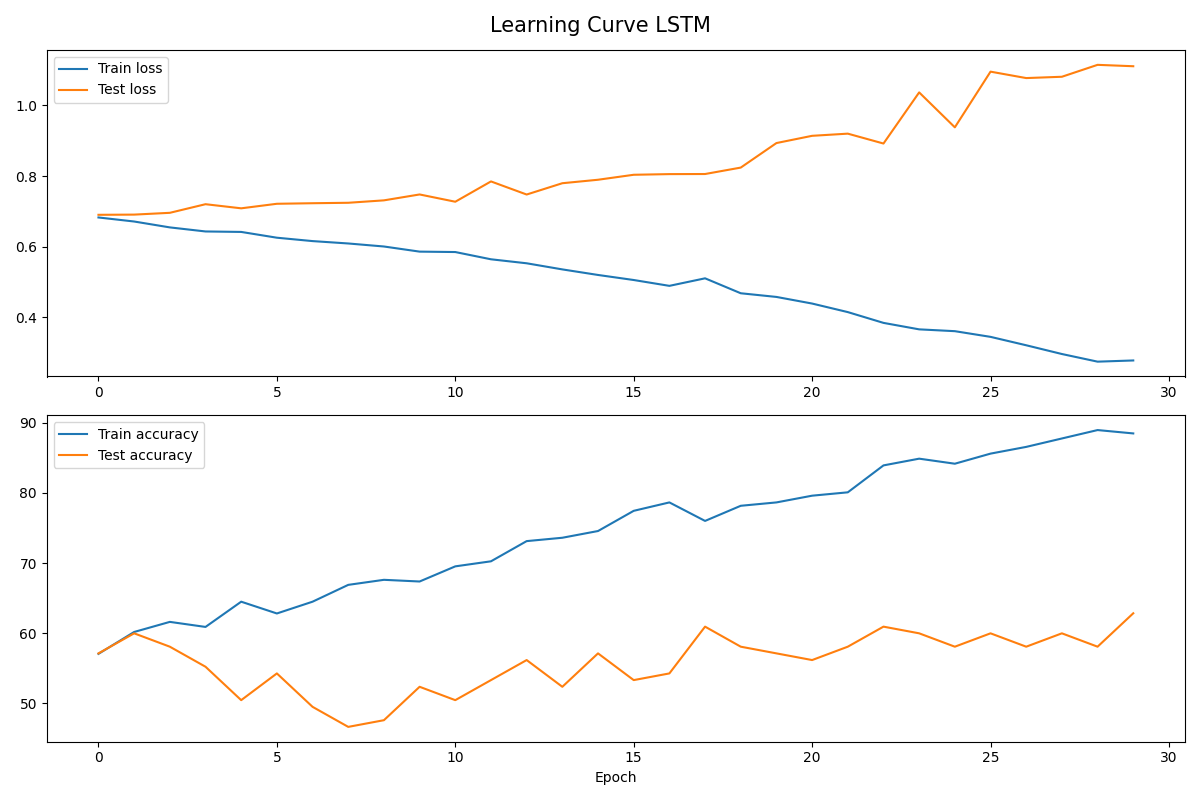
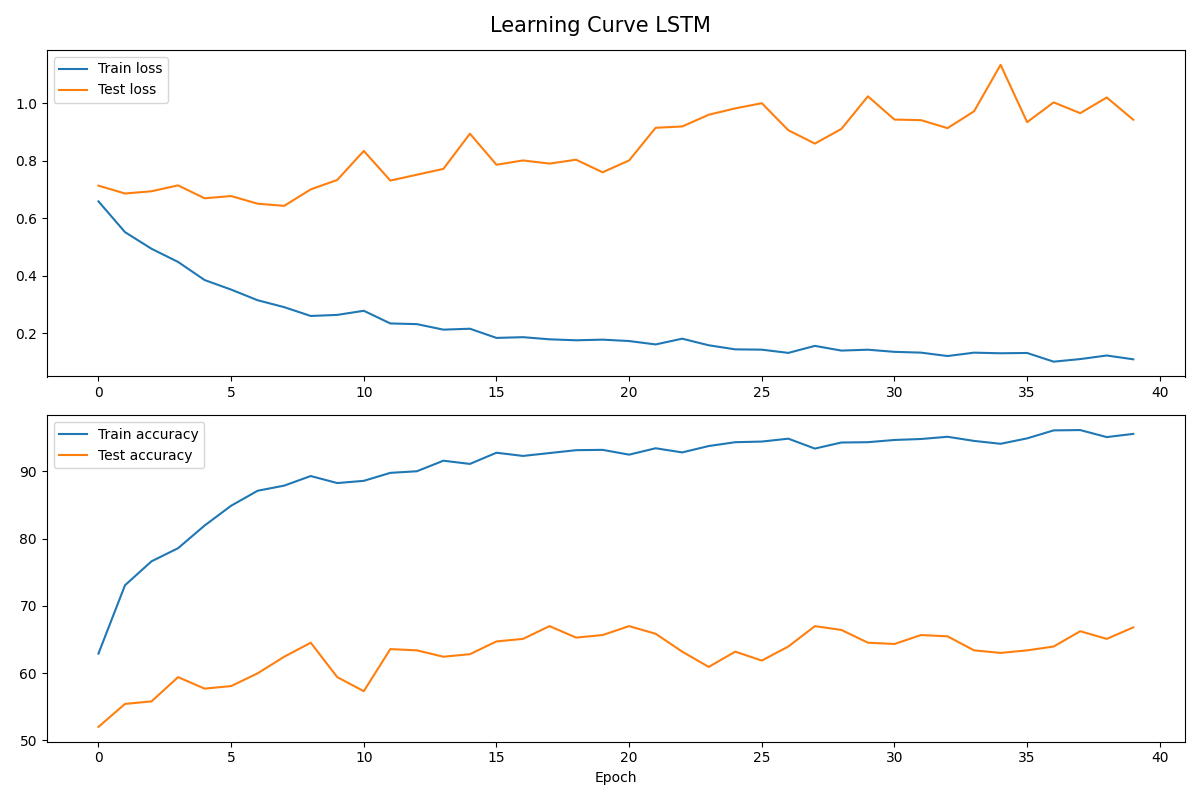
update

diff --git a/SW/size/models.py b/SW/size/models.py
@@ -64,7 +64,7 @@ class ConvNet(nn.Module):
     
 class LSTM(nn.Module):
 
-    def __init__(self, input_size, output_size, device, hidden_size=50, num_layers=2, pdrop=0.1):
+    def __init__(self, input_size, output_size, device, hidden_size=50, num_layers=3, pdrop=0.1):
         super(LSTM, self).__init__()
         
         self.input_size = input_size

diff --git a/SW/size/test_accu.py b/SW/size/test_accu.py
@@ -58,7 +58,7 @@ def test_model():
 
     eta = 1e-3
     weight_decay = 1e-4
-    dropout = 0.15
+    dropout = 0.1
     batch_size = 30
     gamma = 0.3
     print(f'parameters of ML model : \nlearning_rate = {eta}, weight_decay = {weight_decay}, dropout = {dropout}, batch_size = {batch_size}, gamma = {gamma}')
